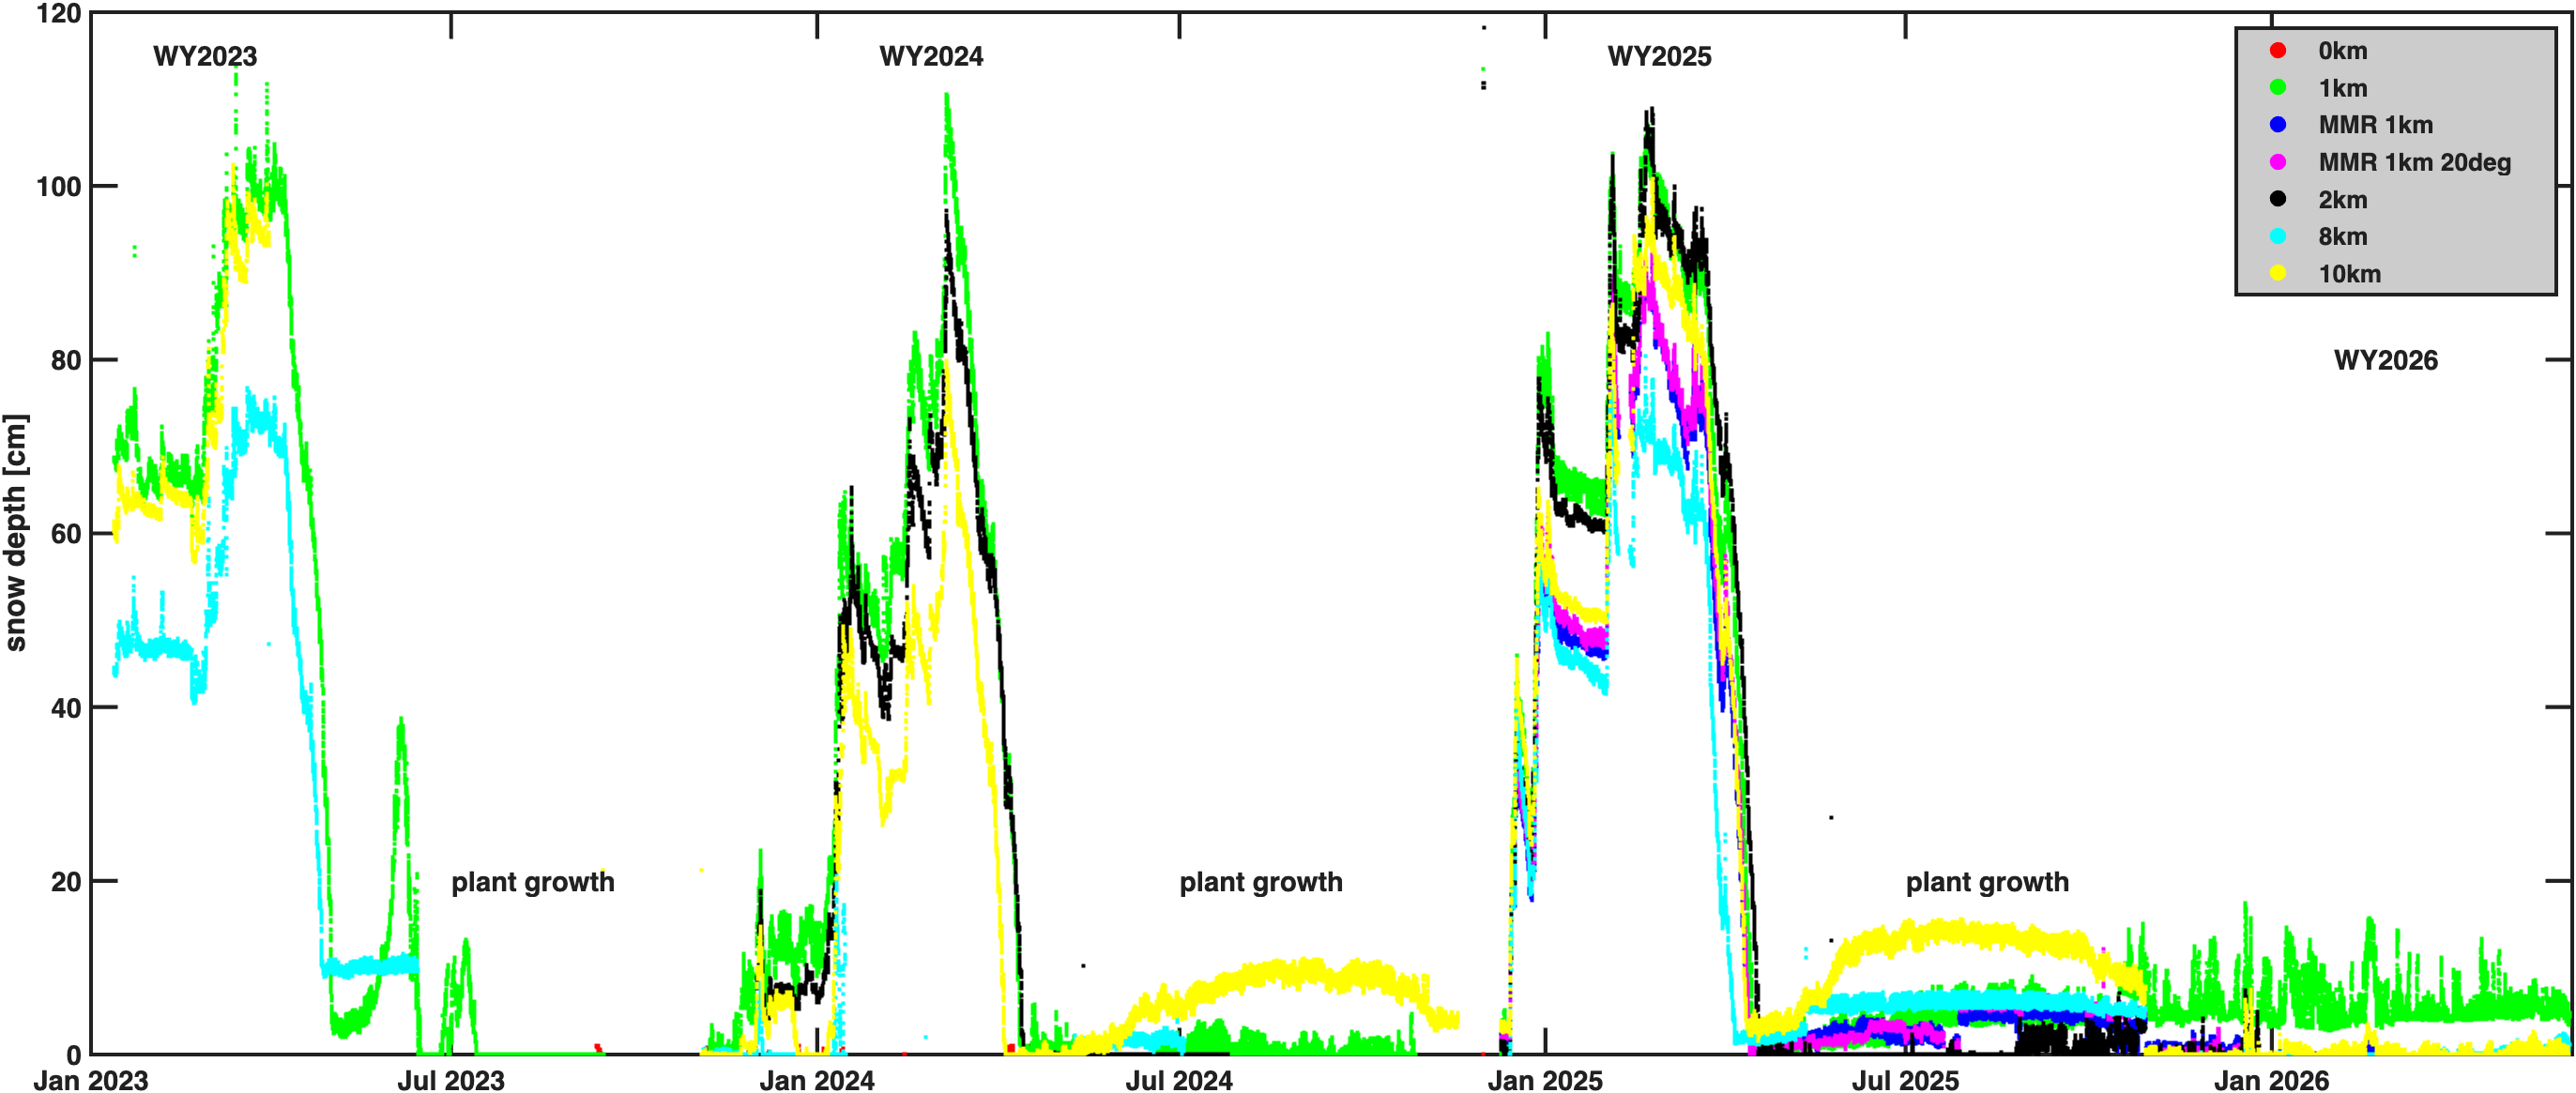
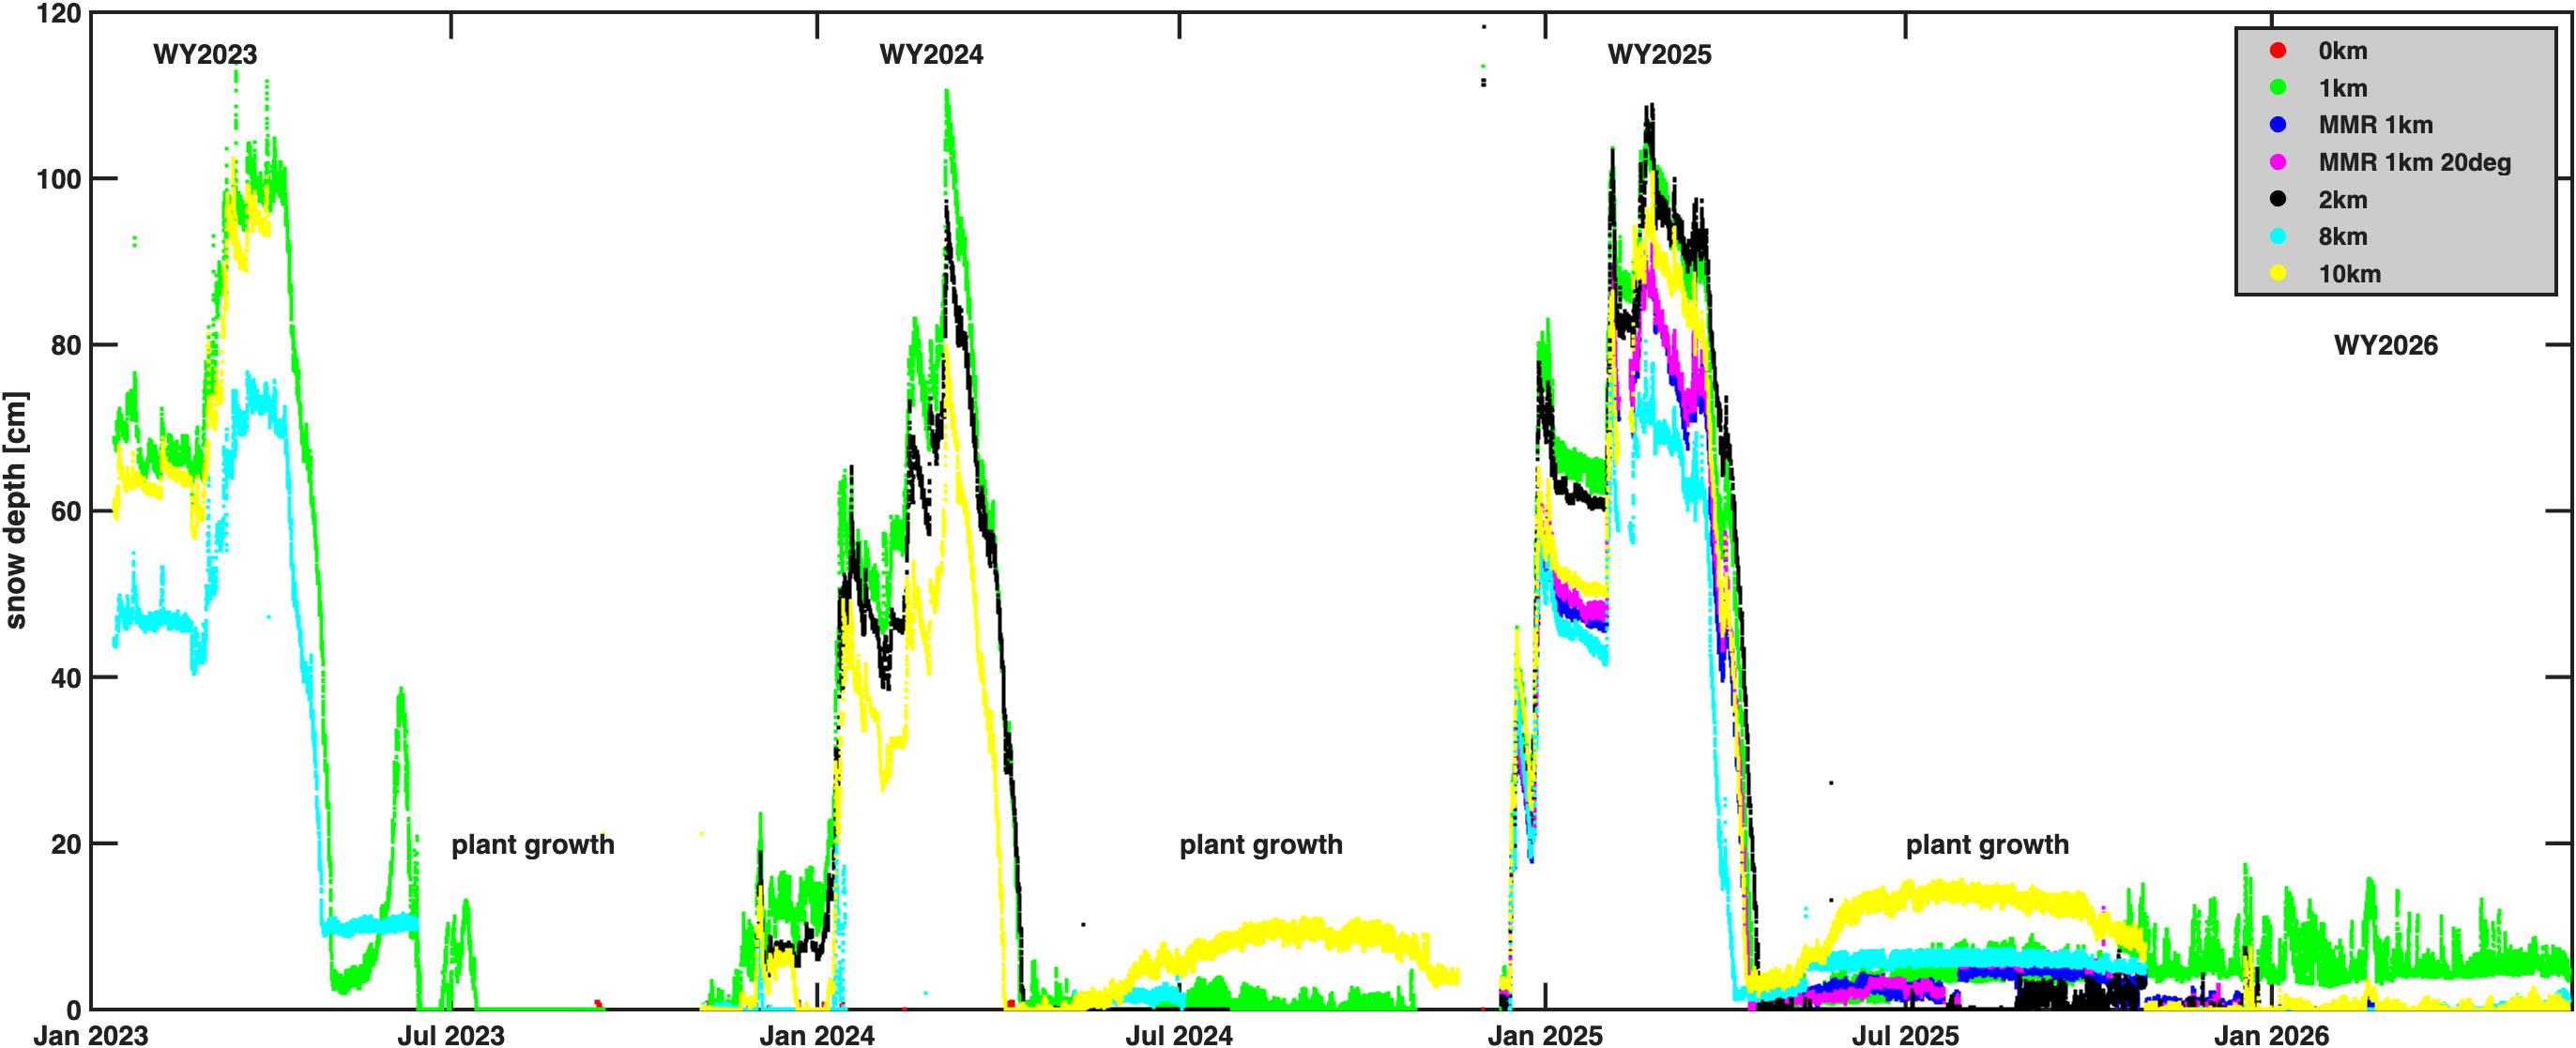
add miniMet figures, cleaned data in matlab data file and CSVs

diff --git a/plotCamasWeather.m b/plotCamasWeather.m
@@ -2,7 +2,8 @@
 % loads the database file created by loadCamasWeather.m
 % creates summary plots from WY2023-2026
 
-loadCamasWeather
+%loadCamasWeather
+%addpath('/Users/hpmarshall/D_DRIVE/MATLAB/windrose/')
 
 %% lets plot all of the SNOdar data from Camas
 figure(1);clf
@@ -33,3 +34,115 @@ h(6)=text(datetime(2024,7,1),20,'plant growth')
 h(7)=text(datetime(2025,7,1),20,'plant growth')
 set(h,'FontSize',14,'FontWeight','bold')
 exportgraphics(gcf,'FIGURES/CamasSNODAR2023-2026.png')
+
+%% plot miniMet data from Camas
+figure(2);clf
+c='rgbmkcy';
+for n=1:5
+    subplot(5,1,n)
+    plot(miniMet(n).DateTime,miniMet(n).Temp,[c(n) '-']); hold on
+    xlim([datetime(2022,12,15) datetime(2026,5,31)]); ylim([-25 35])
+    title(miniMet(n).name)
+    set(gca,'FontSize',14,'FontWeight','bold','LineWidth',2)
+    if n==3
+        ylabel('air temperature [^oC]')
+    end
+end
+%% temperature and wind to compare sites
+D=[]; G=[];
+sites={'site0km ','site1km ','site2km ','site8km ','site10km'};
+years={'2023','2024','2025','2026'};
+
+%% temp and wind plots
+figure(3);clf; figure(5); clf
+for n=1:length(miniMet)
+    Ix2023=miniMet(n).DateTime<datetime(2023,4,1); % 2023 winter
+    Ix2024=miniMet(n).DateTime>datetime(2023,11,1) & miniMet(n).DateTime<datetime(2024,4,1); % 2024 winter
+    Ix2025=miniMet(n).DateTime>datetime(2024,11,1) & miniMet(n).DateTime<datetime(2025,4,1); % 2025 winter
+    Ix2026=miniMet(n).DateTime>datetime(2025,11,1) & miniMet(n).DateTime<datetime(2026,4,1); % 2026 winter
+    Ix1=Ix2023 | Ix2024 | Ix2025 | Ix2026;
+    D=[D;miniMet(n).Temp(Ix1)]; % make a long array of all temperature data
+    Dwind=[D;miniMet(n).WindDirection(Ix1)]; % make a long array of all temperature data
+    G=[G;repmat(sites{n},length(miniMet(n).Temp(Ix1)),1)];
+    % now do year by year comparison
+    figure(3);
+    subplot(1,5,n)
+    fill([0.5 4.5 4.5 0.5 0.5],[0 0 -20 -20 0],[198, 252, 255]/255); hold on
+    D2=miniMet(n).Temp(Ix1);
+    D2wind=miniMet(n).WindDirection(Ix1);
+    D2speed=miniMet(n).WindSpeed(Ix1);
+    G2=Ix2023*2023+Ix2024*2024+Ix2025*2025+Ix2026*2026;
+    G2=G2(G2>0);
+    hb=boxplot(D2,G2,'notch','on'); 
+    set(gca,'FontSize',14,'FontWeight','bold','LineWidth',2)
+    set(hb,'linewidth',2); %ylim([-12 14.5]); xlim([0.5 4.5])
+    ylabel('winter air temperature [^oC]')
+    xlim([0.5 4.5]); ylim([-20 20])
+    title(miniMet(n).name)
+    % plot wind roses
+    IxR=[0 5 10 15]+n
+    figure(5);
+    for q=1:4
+        subplot(4,5,IxR(q))
+        %set(gcf, 'units', 'normalized', 'position', [0 0 1 1]);
+        Ix=G2==2022+q; % find the year
+        Options = {'anglenorth', 0, 'angleeast', 90, 'labels', {'N (0°)', 'E (90°)', 'S (180°)', 'W (270°)'}, 'freqlabelangle', 45, ...
+            'legendtype', 1,'axes', gca,'ScaleFactor',1,'vWinds', [0 2.5 5 7.5 10]};
+        [figure_handle, count, speeds, directions, Table] = WindRose(miniMet(n).WindDirection(Ix), miniMet(n).WindSpeed(Ix), Options);
+        if n==1
+            ylabel(num2str(2022+q))
+        end
+        if q==1
+            title(miniMet(n).name)
+        else
+            title(' ')
+        end
+    end
+end
+%%
+figure(4);clf
+hb=boxplot(D,G,'notch','on'); 
+set(gca,'FontSize',14,'FontWeight','bold','LineWidth',2)
+set(hb,'linewidth',2); ylim([-20 15]); xlim([0.5 5.5])
+ylabel('winter air temperature [^oC]')
+%% plot wind direction during winter
+figure(6);clf
+for n=1:5
+    subplot(5,1,n)
+    Ix=miniMet(n).WindSpeed>5;
+    plot(miniMet(n).DateTime(Ix),miniMet(n).WindDirection(Ix),[c(n) '.']); hold on
+    xlim([datetime(2022,12,15) datetime(2026,5,31)]); %ylim([-25 35])
+    title(miniMet(n).name)
+    set(gca,'FontSize',14,'FontWeight','bold','LineWidth',2)
+    if n==3
+        ylabel('wind direction [degrees from North] for speed > 5 [m/s] ')
+    end
+    ylim([0 360])
+    hold on
+    plot([datetime(2022,12,15) datetime(2026,5,31)],[90 90],'k')
+    plot([datetime(2022,12,15) datetime(2026,5,31)],[270 270],'k')
+end
+%% print some figures
+figure(2); exportgraphics(gcf,'FIGURES/CamasTemp.png')
+figure(3); exportgraphics(gcf,'FIGURES/CamasTemp2.png')
+figure(4); exportgraphics(gcf,'FIGURES/CamasTemp3.png')
+figure(5); exportgraphics(gcf,'FIGURES/CamasWindRose.png')
+figure(6); exportgraphics(gcf,'FIGURES/CamasWind.png')
+%% and now export data to CSV
+
+
+
+
+
+
+
+
+
+
+
+
+
+
+
+
+

diff --git a/loadCamasWeather.m b/loadCamasWeather.m
@@ -18,6 +18,7 @@ for n=1:length(Sname)
     SNODAR(n).name=Sname{n}(1:end-1);
 end
 
+
 %  save data as CSV files for non-MATLAB users
 SNODAR2=rmfield(SNODAR,'name'); % make copy and remove name field
 for n=1:length(SNODAR)
@@ -26,16 +27,44 @@ for n=1:length(SNODAR)
 end
 
 %% load miniMet data
+Sname={'site0km*','site1km*','site2km*','site8km*','site10km*'};
+for n=1:length(Sname)
+    fname=['miniMET/RAW/' Sname{n}]
+    miniMet(n) = readOnsetStation(fname);
+    % filter data for QA/QC
+    Ix=miniMet(n).Temp>50 | miniMet(n).Temp<-40;
+    miniMet(n).Temp(Ix)=NaN;
+    Ix=miniMet(n).WindDirection>359 | miniMet(n).WindDirection<0;
+    miniMet(n).WindDirection(Ix)=NaN;
+end
+for n=1:length(Sname)
+    miniMet(n).name=Sname{n}(1:end-1);
+end
 
+%%  save data as CSV files for non-MATLAB users
+miniMet2=rmfield(miniMet,'name'); % make copy and remove name field
+for n=1:length(miniMet)
+    myTable = struct2table(miniMet2(n));
+    writetable(myTable, ['miniMET/CSV/' miniMet(n).name '.csv']);
+end
 
-
-
-
-
-
+%% now load the SNOTEL data
+load SNOTEL/snotel_camas_creek_WY1992_2026.mat
+SNOTEL.DateTime=dates;
+SNOTEL.TempAvg=5/9*(TAVG-32);
+SNOTEL.TempMin=5/9*(TMIN-32);
+SNOTEL.TempMax=5/9*(TMAX-32);
+SNOTEL.SnowDepth=SNWD*2.54;
+SNOTEL.SWE=WTEQ*2.54;
+SNOTEL.Precip=PRCP*2.54;
+SNOTEL.name='Camas Creek Divide';
+SNOTEL.units.temp='deg C';
+SNOTEL.units.SnowDepth='cm';
+SNOTEL.units.SWE='cm';
+SNOTEL.units.Precip='cm';
 
 % save all structure arrays as a MATLAB data file
-%save Camas2023-26miniMet miniMet SNODAR SNOTEL
+save Camas2023-26miniMet miniMet SNODAR SNOTEL
 
 
 

diff --git a/readOnsetStation.m b/readOnsetStation.m
@@ -1,0 +1,33 @@
+function Dall = readOnsetStation(Sname)
+% hpm 05/29/2024
+% read all data files from a particular station, sort and remove duplicate
+% data
+% INPUT: Sname = station name
+% OUTPUT: complete data record
+
+
+d0=dir(Sname);
+filename={d0.name}'
+D2=readOnset(['miniMET/RAW/' filename{1}]); % read the first one
+for n=2:length(filename)
+    filename{n}
+    D=readOnset(['miniMET/RAW/' filename{n}]);
+    Dfields=fields(D);
+    for m=1:length(Dfields)
+        D2.(Dfields{m})=[D2.(Dfields{m}); D.(Dfields{m})]; % concat fields
+    end
+end
+% now sort based on DateTime
+[Y,I]=sort(D2.DateTime);
+% now sort all the other fields by time
+Dfields=fields(D2);
+for n=1:length(Dfields)
+    D3.(Dfields{n})=D2.(Dfields{n})(I);
+end
+% now remove any duplicates
+[C,Ix]=unique(D3.DateTime);
+Dfields=fields(D3);
+for n=1:length(Dfields)
+    Dall.(Dfields{n})=D3.(Dfields{n})(Ix);
+end
+

diff --git a/readOnset.m b/readOnset.m
@@ -1,0 +1,30 @@
+function D = readOnset(filename)
+% hpm  05/29/2024
+% function to read data from Onset HOBO weather stations
+% INPUT: filename = data file
+% OUTPUT: D = structure array of weather obs
+
+T=readtable(filename);
+
+vNames={'DateTime','Temp','RH','Pressure','WindSpeed','GustSpeed','WindDirection'};
+for n=1:length(vNames)
+    vNames{n}
+    Ix=find(contains(T.Properties.VariableNames,vNames{n})); % get the variable with "Date" in the name, since it changed
+    if length(Ix)>0
+        D.(vNames{n})=T.(T.Properties.VariableNames{Ix}); % now this works for any DateTime variable!
+    else
+        D.(vNames{n})=ones(height(T),1)*NaN; % add NaN if not measured
+    end
+end
+D.DateTime=datetime(datevec(D.DateTime)+ones(length(D.DateTime),1)*[2000 0 0 0 0 0]); % add 2000 yrs!
+
+
+% 
+% 
+% D.DateTime=datetime(datevec(D.DateTime)+ones(length(D.DateTime),1)*[2000 0 0 0 0 0]); % add 2000 yrs!
+% D.Temp=T.Temp__C_LGRS_N_21623142_SENS_N_21549907_LBL_T_;
+% D.RH=T.RH___LGRS_N_21623142_SENS_N_21549907_LBL_Rh_;
+% D.Pressure=T.Pressure_Mbar_LGRS_N_21623142_SENS_N_21318866_LBL_BarometricPre;
+% D.WindSpeed=T.WindSpeed_M_s_LGRS_N_21623142_SENS_N_21534754_LBL_Ws_;
+% D.GustSpeed=T.GustSpeed_M_s_LGRS_N_21623142_SENS_N_21534754_LBL_Gst_;
+% D.WindDirection=T.WindDirection___LGRS_N_21623142_SENS_N_21534754_LBL_Wd_;

diff --git a/CamasSNOTEL.m b/CamasSNOTEL.m
@@ -1,5 +1,7 @@
 % Camas Creek Divide historical analysis
-load SNOTEL/snotel_camas_creek_WY1992_2026.mat
+% download_snotel_camas_creek % script to load SNOTEL data, or load mat
+% file below
+load SNOTEL/snotel_camas_creek_WY1992_2026.mat 
 %%
 %% now find previous peak swe for each year
 WY=1993:2023;

diff --git a/README.md b/README.md
@@ -7,6 +7,7 @@ SNODAR/ : data files from the laser-based snow depth sensors
 SNODAR/RAW/ : raw datafiles downloaded from sensors
 SNODAR/CSV/ : cleaned data in CSV format for WY2023-2026 
 miniMET/ : raw data files from the mini meteorological stations (temp, RH, pressure, wind)
+miniMET/RAW/ : raw datafiles downloaded from miniMET Onset U30 loggers
 LIDAR/ : files associated with airborne lidar snow depth survey, February 8, 2025
 iSNOBAL/ : files associated with snow energy and mass balance modeling, WY2020-2025
 IN_SITU/ : snowpits, SWE cores, interval boards, field notes
@@ -18,3 +19,9 @@ readSNOdarStation.m : reads all SNODAR data files for an individual station
 plotCamasWeather.m : makes summary plots of WY2023-2026
 download_snotel_camas_creek : downloads entire historical record (WY1993-2026) of Camas Creek Divide SNOTEL using NRCS API 
 CamasSNOTEL.m : Makes plot showing historical context of WY2023-2026
+readOnset.m : reads an individual miniMET data file
+readOnsetStation.m: reads all data from a single station
+
+Camas2023-26miniMet.mat : matlab data file with structure arrays containing the database of all observations (miniMet,SNODAR,SNOTEL)
+      NOTE: for non-MATLAB users, CSV files for miniMet and SNODAR data are in the CSV subdirectories.
+